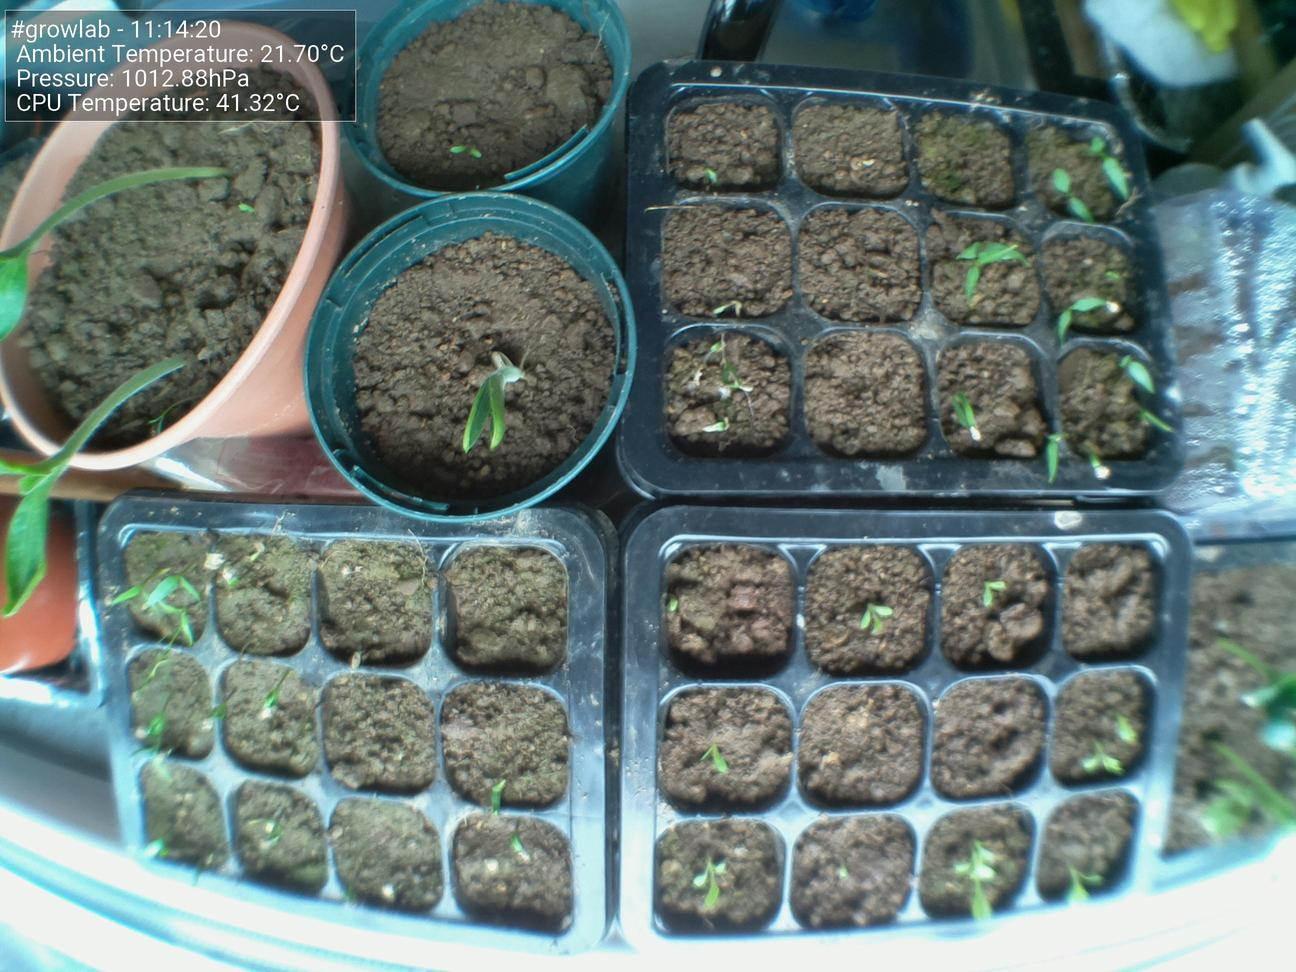
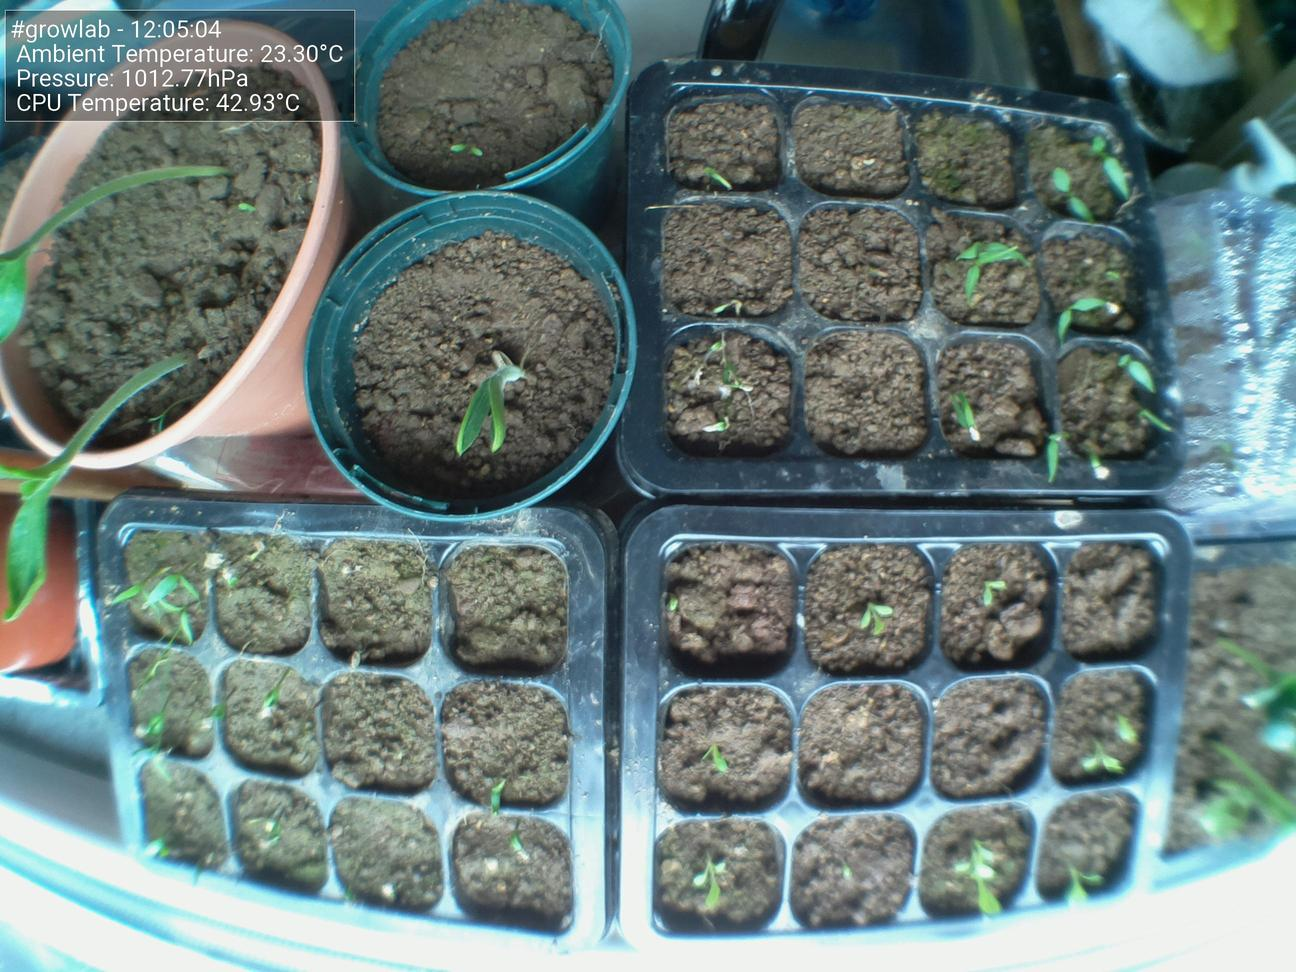
Update images at Mon  2 May 12:05:10 BST 2022

diff --git a/docs/index.html b/docs/index.html
@@ -44,15 +44,15 @@
                         <tbody>
                             <tr>
                                 <td>Time</td>
-                                <td>11:14:20</td>
+                                <td>12:05:04</td>
                             </tr>
                             <tr>
                                 <td>CPU Temp</td>
-                                <td>41.32°C</td>
+                                <td>42.93°C</td>
                             </tr>
                             <tr>
                                 <td>Ambient Temperature</td>
-                                <td>21.70°C</td>
+                                <td>23.30°C</td>
                             </tr>
                             <tr>
                                 <td>Humidity</td>
@@ -60,7 +60,7 @@
                             </tr>
                             <tr>
                                 <td>Pressure</td>
-                                <td>1012.88hPa</td>
+                                <td>1012.77hPa</td>
                             </tr>
                         </tbody>
                     </table>
@@ -68,7 +68,7 @@
 
                 <h5>Latest image</h5>
                 <div style="width: 85%;">
-                            <img class="figure-img img-fluid rounded" src="./preview.jpg?uid=1651486466.742788">
+                            <img class="figure-img img-fluid rounded" src="./preview.jpg?uid=1651489509.7933023">
                 </div>
             </div>
         </div>
